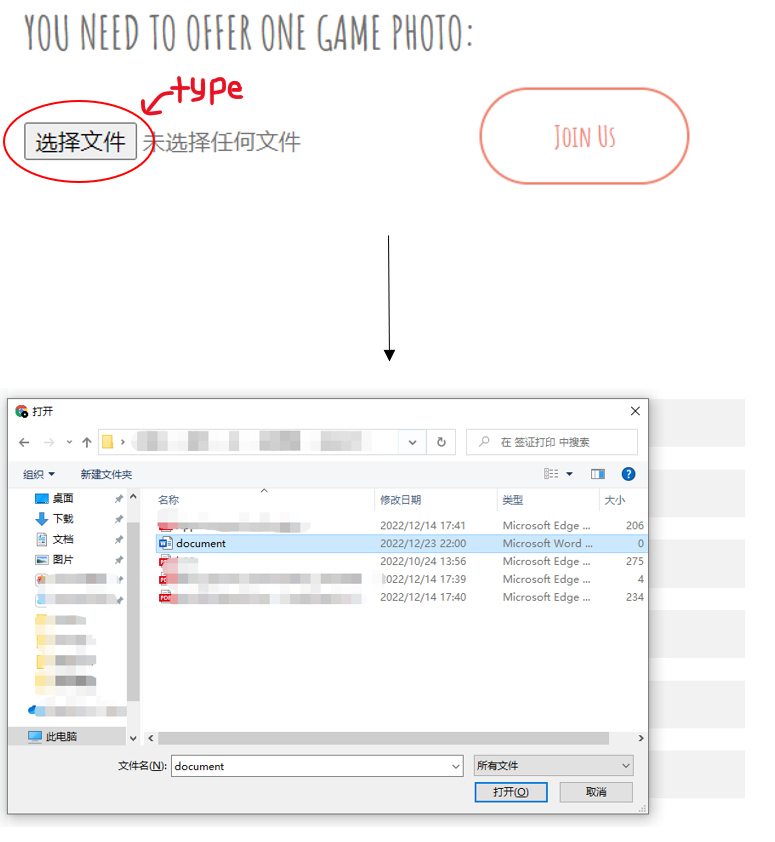
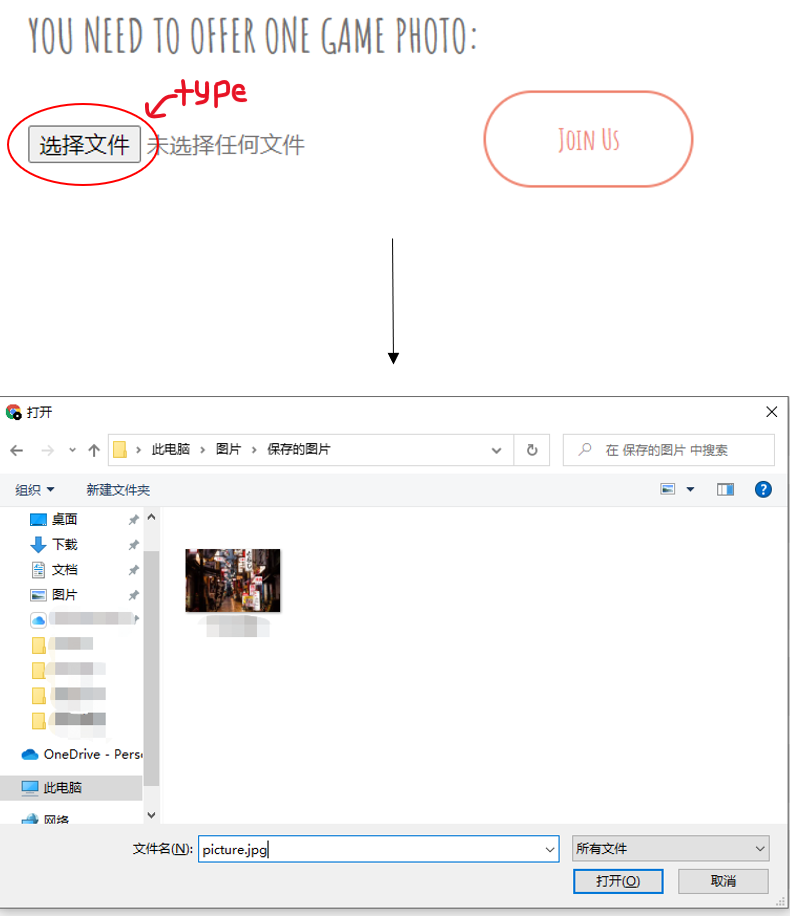
1

diff --git a/README.md b/README.md
@@ -197,3 +197,5 @@ On the gamepage page, users can browse game information such as game cover, game
 At the end of the page, an input port is reserved for developers to input information, and a file upload interface is provided.
 
 ![upload](pics/upload.png)
+
+Note that the upload format of upload only supports .jpg format.
